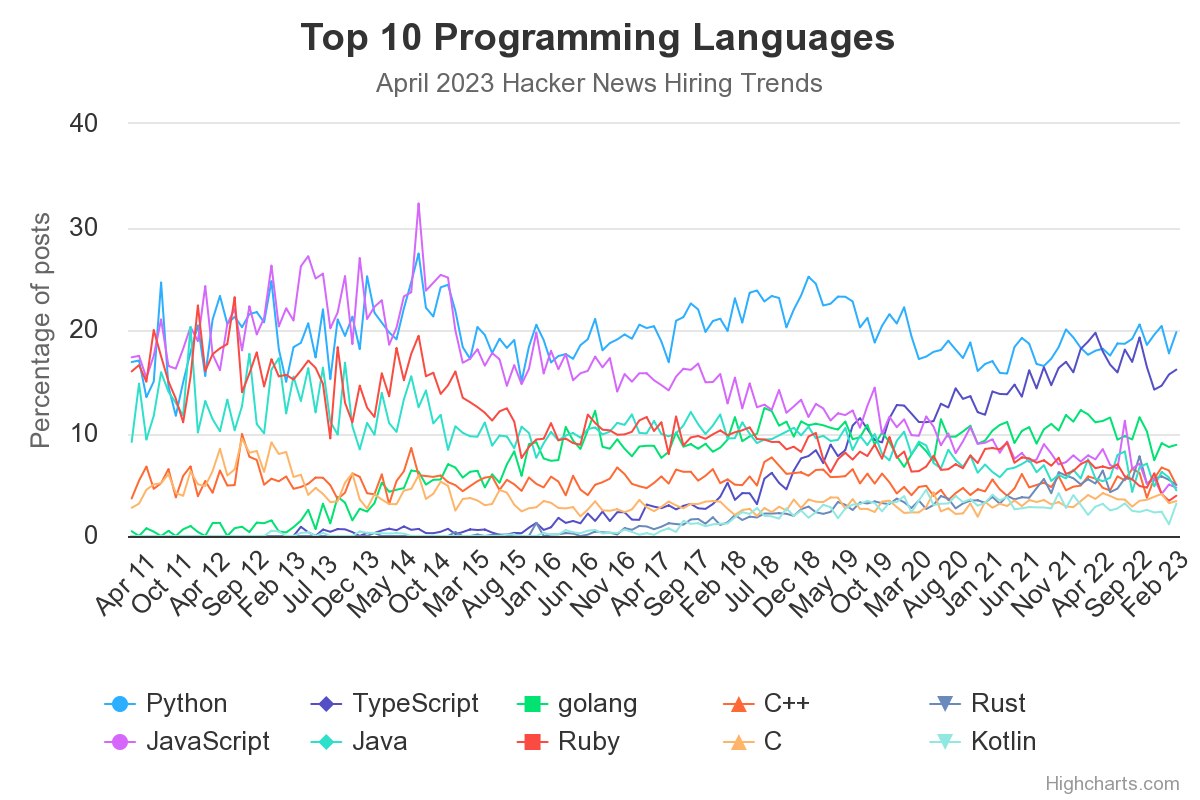
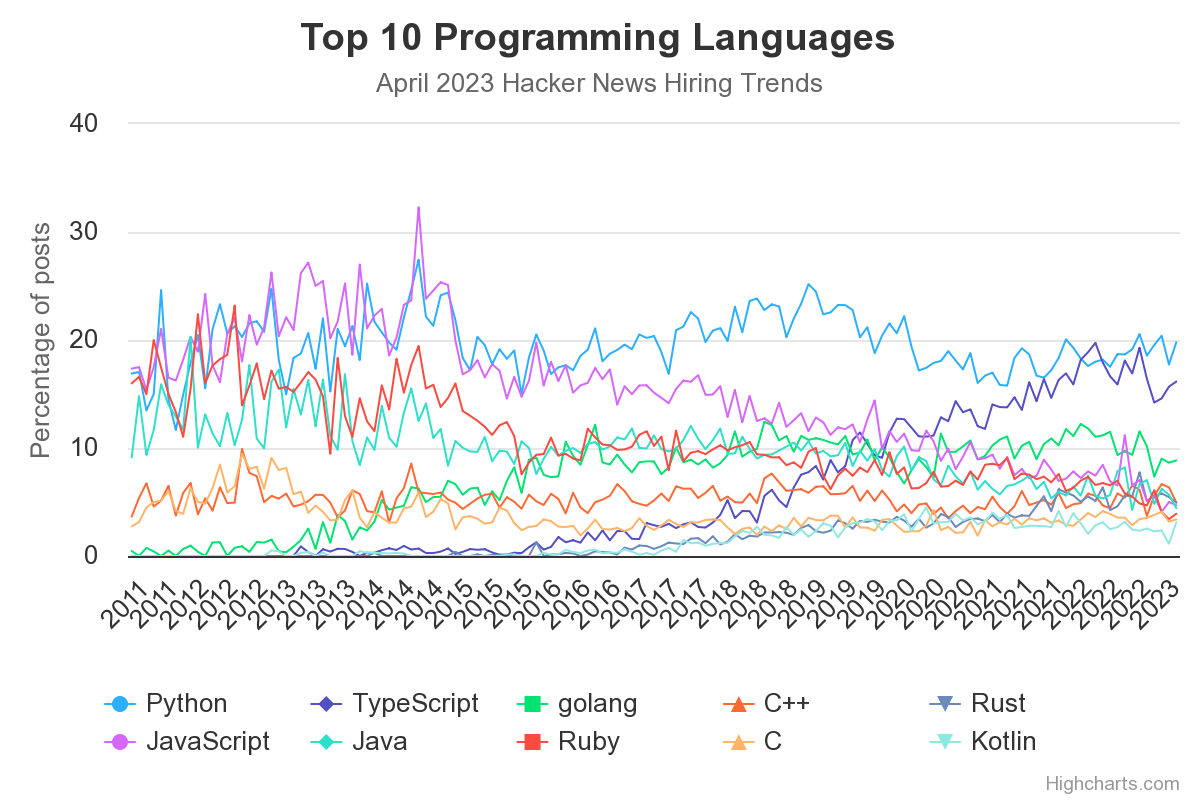
Fix year labels

Changed region(s): [[0.0308, 0.25, 0.9867, 0.7812]]

diff --git a/web/js/builder-v18.js b/web/js/builder-v18.js
@@ -93,7 +93,7 @@ const chartBuilder = (function () {
         type: 'line'
       },
       title: {
-        text: 'Remote vs Onsite vs Hybrid'
+        text: ''
       },
       subtitle: {
         text: 'April 2023 Hacker News Hiring Trends'
